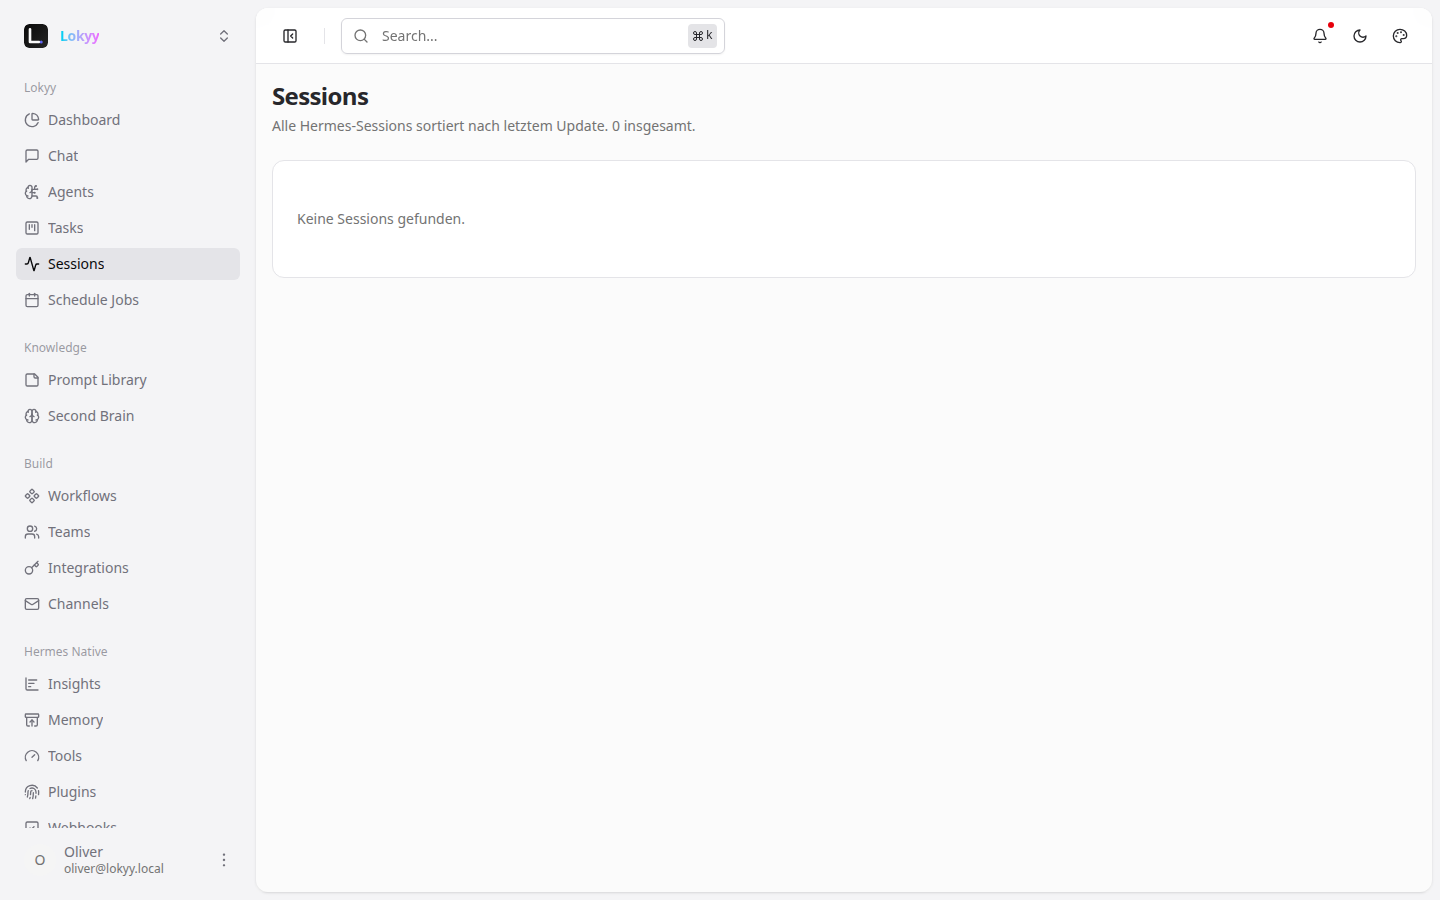
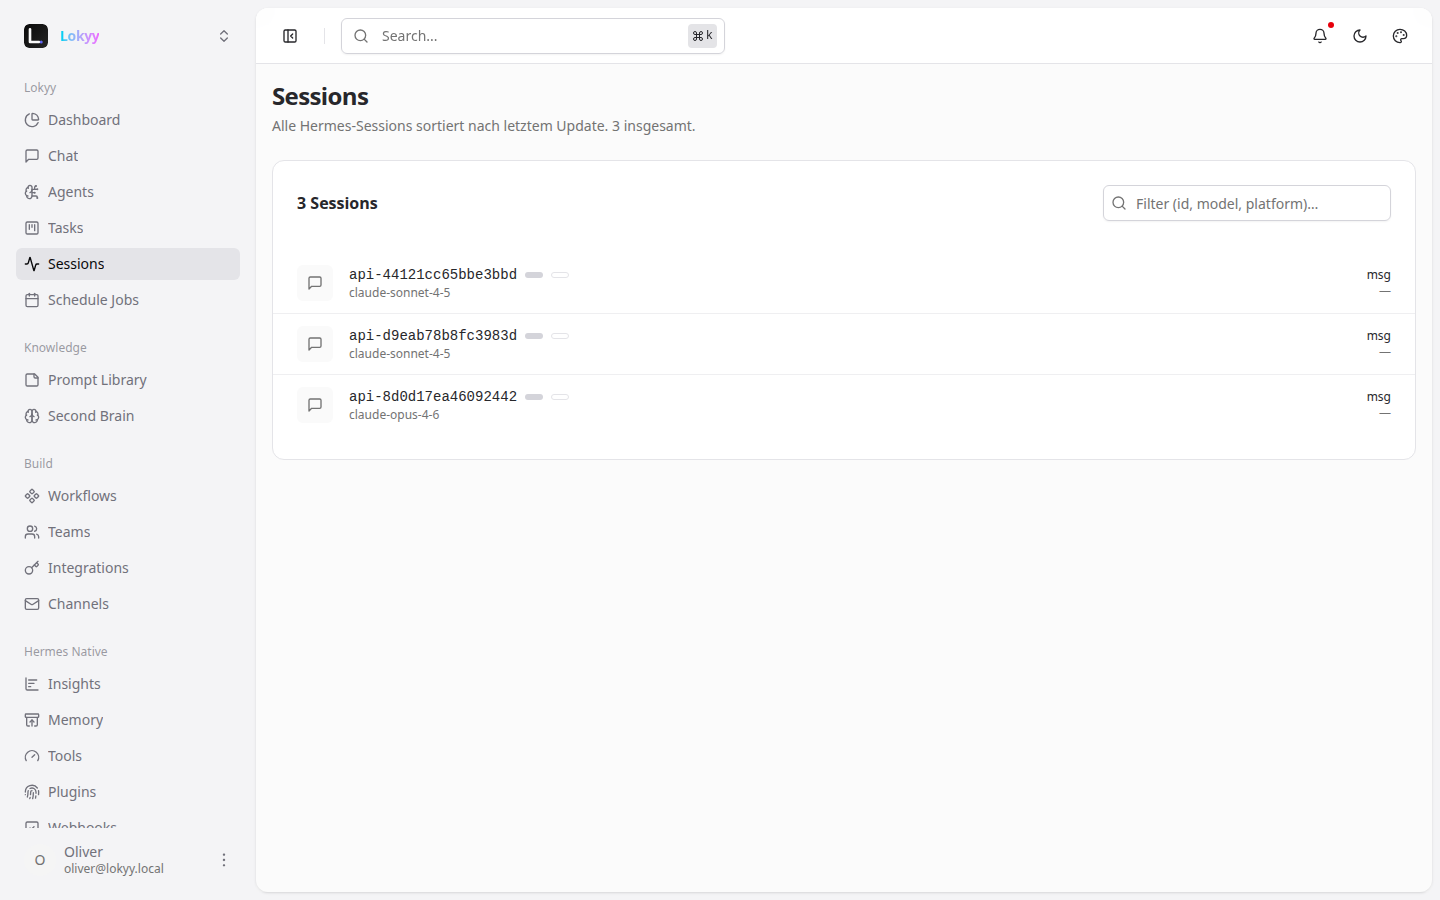
lokyy: Phase-2c v1 — wire Lokyy sidebar to live Hermes data
First slice of Phase-2c: Lokyy as the abstraction layer on top of Hermes.
Five sidebar endpoints now flow REAL data from Hermes-Dashboard's REST
API (port 9119) instead of static stubs.

Backend:
- New: lokyy-os-be/src/api/hermes-dashboard-client.ts
  * scrapes window.__HERMES_SESSION_TOKEN__ from the dashboard's HTML
    once, caches it for 30 minutes, refreshes on 401
  * dashFetch() / dashGet() helpers used by all live proxies
- lokyy-stubs.ts wired to live endpoints (with shape translation):
  * /api/lokyy/agents          ← /api/profiles  (Hermes profiles → lokyy-app Agent type with id/skillCount/hasSoul/etc.)
  * /api/lokyy/sessions        ← /api/sessions
  * /api/lokyy/hermes-plugins  ← /api/skills    (skill array → plugin list)
  * /api/lokyy/hermes-logs     ← /api/logs      (gateway log lines)
  * /api/lokyy/settings        ← /api/config    (merged with Lokyy local prefs under .hermes)
- safeDash<T>() wrapper returns { data, live, error } so the FE can
  show a graceful empty state when Hermes is down (instead of crashing)

Frontend:
- No FE changes — lokyy-app already calls these paths from
  src/lib/lokyy-agents.ts, src/lib/lokyy-hermes.ts, src/lib/lokyy-settings.ts
- /agents page now shows the 'default' Hermes profile as an Agent card
  with the real 87-skill count + gradient avatar (DE)
- /plugins, /logs, /sessions, /settings → all show live Hermes data

Verified:
- bun run scripts/verify-phase-1d.ts → 20/20 sidebar routes clean
[…]

diff --git a/lokyy-os-be/src/api/lokyy-stubs.ts b/lokyy-os-be/src/api/lokyy-stubs.ts
@@ -17,6 +17,17 @@
 import { Hono } from "hono";
 import type { MiddlewareHandler } from "hono";
 import { auth } from "../auth.ts";
+import { dashGet } from "./hermes-dashboard-client.ts";
+
+/** Wrap a dashGet call: return the JSON on success, friendly empty + warning on failure. */
+async function safeDash<T>(path: string, emptyFallback: T): Promise<{ data: T; live: boolean; error?: string }> {
+  try {
+    const data = await dashGet<T>(path);
+    return { data, live: true };
+  } catch (err) {
+    return { data: emptyFallback, live: false, error: (err as Error).message };
+  }
+}
 
 const requireAuth: MiddlewareHandler = async (c, next) => {
   const session = await auth.api.getSession({ headers: c.req.raw.headers });
@@ -35,12 +46,36 @@ lokyyStubs.use("*", requireAuth);
 // Agents
 // ─────────────────────────────────────────────────────────────────────────────
 
-lokyyStubs.get("/agents", (c) =>
-  c.json({
-    agents: [],
-    note: "Phase-1d stub. Real agent list arrives in Phase-2 with Hermes.",
-  })
-);
+// Wired to hermes-dashboard /api/profiles — translate Hermes shape →
+// lokyy-app's Agent type (camelCase, derived id, defaulted optional fields).
+type HermesProfile = {
+  name: string;
+  path?: string;
+  is_default?: boolean;
+  model?: string;
+  provider?: string;
+  has_env?: boolean;
+  skill_count?: number;
+  mcp_count?: number;
+  has_soul?: boolean;
+  description?: string;
+};
+lokyyStubs.get("/agents", async (c) => {
+  const r = await safeDash<{ profiles?: HermesProfile[] }>("/api/profiles", { profiles: [] });
+  const agents = (r.data.profiles ?? []).map((p) => ({
+    id: p.name,
+    name: p.name,
+    model: p.model ?? "—",
+    provider: p.provider ?? "—",
+    skillCount: p.skill_count ?? 0,
+    mcpCount: p.mcp_count ?? 0,
+    hasSoul: p.has_soul ?? false,
+    description: p.description ?? (p.is_default ? "Default agent profile." : ""),
+    isDefault: p.is_default ?? false,
+    configPath: p.path ?? "",
+  }));
+  return c.json({ agents, live: r.live, error: r.error });
+});
 
 lokyyStubs.get("/agents/:agentId/skills", (c) =>
   c.json({ skills: [] })
@@ -78,9 +113,11 @@ lokyyStubs.post("/jobs", async (c) => {
   }, 202);
 });
 
-lokyyStubs.get("/sessions", (c) =>
-  c.json({ sessions: [] })
-);
+// Wired to hermes-dashboard /api/sessions
+lokyyStubs.get("/sessions", async (c) => {
+  const r = await safeDash<{ sessions?: unknown[] }>("/api/sessions", { sessions: [] });
+  return c.json({ sessions: r.data.sessions ?? [], live: r.live, error: r.error });
+});
 
 lokyyStubs.get("/conversations", (c) =>
   c.json({ conversations: [] })
@@ -126,7 +163,16 @@ const DEFAULT_SETTINGS = {
   phase: "Phase-1d",
 };
 
-lokyyStubs.get("/settings", (c) => c.json(DEFAULT_SETTINGS));
+// Wired to hermes-dashboard /api/config plus lokyy-specific local prefs.
+lokyyStubs.get("/settings", async (c) => {
+  const r = await safeDash<Record<string, unknown>>("/api/config", {});
+  return c.json({
+    ...DEFAULT_SETTINGS,
+    hermes: r.live ? r.data : null,
+    hermesLive: r.live,
+    hermesError: r.error,
+  });
+});
 
 lokyyStubs.post("/settings", async (c) => {
   const body = await c.req.json().catch(() => ({}));
@@ -186,9 +232,23 @@ lokyyStubs.get("/hermes-tools", (c) =>
   c.json({ tools: [], raw: HERMES_NOT_RUNNING_RAW })
 );
 
-lokyyStubs.get("/hermes-plugins", (c) =>
-  c.json({ plugins: [], raw: HERMES_NOT_RUNNING_RAW })
-);
+// Wired to hermes-dashboard /api/skills — Lokyy maps skills → "plugins" in this panel
+lokyyStubs.get("/hermes-plugins", async (c) => {
+  type Skill = { name: string; description: string; category: string; enabled: boolean };
+  const r = await safeDash<Skill[]>("/api/skills", []);
+  const skills = Array.isArray(r.data) ? r.data : [];
+  const plugins = skills.map((s) => ({
+    name: s.name,
+    status: s.enabled ? "enabled" : "disabled",
+    version: "—",
+    description: s.description,
+    source: s.category,
+  }));
+  return c.json({
+    plugins,
+    raw: r.live ? `[lokyy] ${skills.length} skills loaded from Hermes` : HERMES_NOT_RUNNING_RAW,
+  });
+});
 
 lokyyStubs.get("/hermes-webhooks", (c) =>
   c.json({ enabled: false, webhooks: [], raw: HERMES_NOT_RUNNING_RAW })
@@ -209,9 +269,14 @@ lokyyStubs.get("/hermes-insights", (c) =>
   })
 );
 
-lokyyStubs.get("/hermes-logs", (c) =>
-  c.json({ raw: HERMES_NOT_RUNNING_RAW, ok: false, error: "Hermes not deployed (Phase-2)" })
-);
+// Wired to hermes-dashboard /api/logs — returns recent gateway log lines.
+lokyyStubs.get("/hermes-logs", async (c) => {
+  const r = await safeDash<{ file?: string; lines?: string[] }>("/api/logs", { lines: [] });
+  if (!r.live) {
+    return c.json({ raw: HERMES_NOT_RUNNING_RAW, ok: false, error: r.error ?? "unknown" });
+  }
+  return c.json({ raw: (r.data.lines ?? []).join(""), ok: true, error: "" });
+});
 
 lokyyStubs.get("/hermes-curator", (c) =>
   c.json({

diff --git a/lokyy-os-be/src/api/hermes-dashboard-client.ts b/lokyy-os-be/src/api/hermes-dashboard-client.ts
@@ -1,0 +1,78 @@
+/**
+ * Lokyy-side client for the Hermes-Dashboard backend API.
+ *
+ * The Hermes-Dashboard process (port 9119) exposes a rich REST surface
+ * (/api/sessions, /api/skills, /api/tools, /api/cron, /api/agents,
+ *  /api/memory, /api/insights, /api/auth, /api/config, /api/plugins,
+ *  /api/curator, /api/webhooks, /api/channels, /api/logs, /api/profiles,
+ *  /api/models, /api/conversations, /api/status, …) that's gated by a
+ * per-process session token. That token is injected into the dashboard's
+ * HTML at boot as `window.__HERMES_SESSION_TOKEN__` — we scrape it out
+ * once, cache it, and use it as `Authorization: Bearer …` for every
+ * subsequent call.
+ *
+ * The token survives until the dashboard container restarts; if a 401
+ * comes back later we force-refresh and retry once.
+ */
+
+const BASE_URL = process.env.HERMES_DASHBOARD_URL ?? "http://hermes-dashboard:9119";
+
+let cachedToken: string | null = null;
+let tokenFetchedAt = 0;
+const TOKEN_TTL_MS = 30 * 60_000; // 30min before we re-scrape proactively
+
+async function fetchSessionToken(): Promise<string> {
+  const res = await fetch(BASE_URL + "/");
+  if (!res.ok) {
+    throw new Error(
+      `hermes-dashboard HTML fetch failed: HTTP ${res.status} ${res.statusText}`
+    );
+  }
+  const html = await res.text();
+  const m = html.match(/__HERMES_SESSION_TOKEN__="([^"]+)"/);
+  if (!m) {
+    throw new Error("hermes-dashboard HTML did not contain __HERMES_SESSION_TOKEN__");
+  }
+  return m[1]!;
+}
+
+async function getToken(forceRefresh = false): Promise<string> {
+  const stale =
+    !cachedToken || Date.now() - tokenFetchedAt > TOKEN_TTL_MS;
+  if (forceRefresh || stale) {
+    cachedToken = await fetchSessionToken();
+    tokenFetchedAt = Date.now();
+  }
+  return cachedToken!;
+}
+
+/**
+ * Fetch any path on the hermes-dashboard backend with auto-injected auth.
+ * Returns the upstream Response unchanged on first try; on 401 it
+ * force-refreshes the token and retries exactly once.
+ */
+export async function dashFetch(
+  path: string,
+  init: RequestInit = {}
+): Promise<Response> {
+  let token = await getToken();
+  const headers = new Headers(init.headers);
+  headers.set("Authorization", `Bearer ${token}`);
+  let res = await fetch(BASE_URL + path, { ...init, headers });
+  if (res.status === 401) {
+    token = await getToken(true);
+    const retry = new Headers(init.headers);
+    retry.set("Authorization", `Bearer ${token}`);
+    res = await fetch(BASE_URL + path, { ...init, headers: retry });
+  }
+  return res;
+}
+
+/** Convenience: GET + parse JSON. Throws on non-2xx. */
+export async function dashGet<T = unknown>(path: string): Promise<T> {
+  const r = await dashFetch(path);
+  if (!r.ok) {
+    throw new Error(`hermes-dashboard ${path} → HTTP ${r.status}`);
+  }
+  return (await r.json()) as T;
+}
